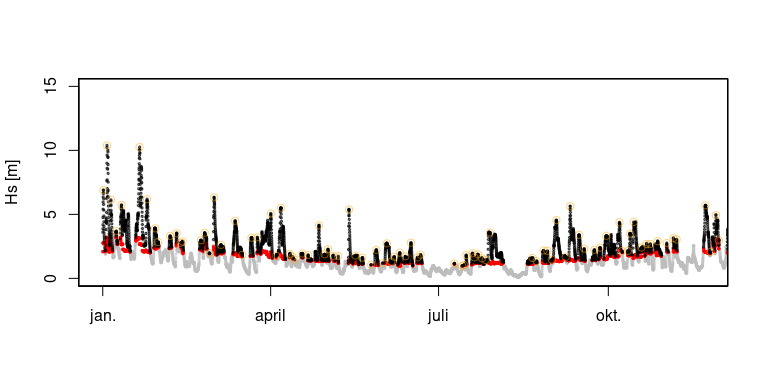
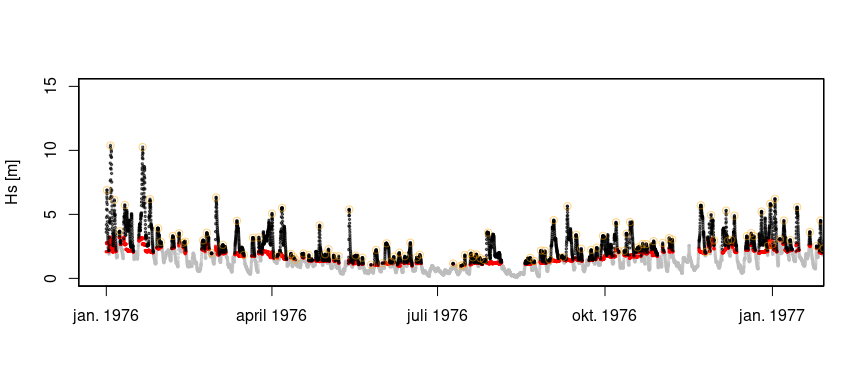
updated README

diff --git a/README.md b/README.md
@@ -58,10 +58,21 @@ df_pick <- peak_picking(ds_subset, peak_picking_thr_model_fml,
 ``` r
 visualize_storm_picking(dfin = df_pick, dfinall = ds,
                         xstr = "dt", ystr = "hs",
-                        sidx = 1, eidx = 3500)
+                        sidx = 1, eidx = 4200)
 ```
 
 ![](README_files/figure-gfm/unnamed-chunk-2-1.png)<!-- -->
+
+## Plot the Hs density
+
+``` r
+par(mfrow = c(3, 1))
+plot(density(df_pick$pots$hs, bw=.1))
+plot(density(df_pick$storms$hs, bw=.1))
+plot(density(ds_subset$hs, bw=.1))
+```
+
+![](README_files/figure-gfm/unnamed-chunk-3-1.png)<!-- -->
 
 ## Notes
 
